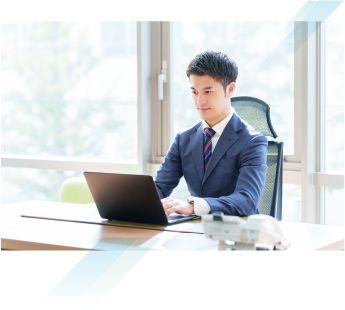
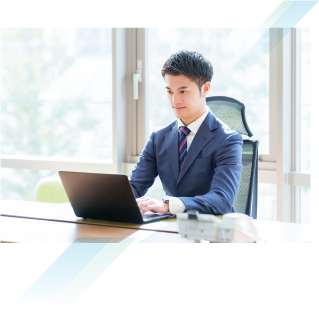
sp top service

diff --git a/docs/assets/css/common.css b/docs/assets/css/common.css
@@ -157,6 +157,11 @@ ul {
   border-radius: 40px;
   transition: all 0.3s ease-in-out;
 }
+@media screen and (max-width: 767px) {
+  .btn {
+    font-size: 14px;
+  }
+}
 .btn:hover {
   opacity: 0.7;
   gap: 40px;
@@ -169,6 +174,14 @@ ul {
   width: 32px;
   height: 8px;
   margin-right: -30px;
+}
+.btn.-border {
+  color: #2E3190;
+  border: 1px solid #2E3190;
+  background-color: transparent;
+}
+.btn.-border::after {
+  background-image: url(/assets/img/arrow-b.svg);
 }
 
 .drawer {
@@ -430,13 +443,79 @@ ul {
 .top-se {
   background: linear-gradient(to right, #ffffff, #CBEBF6);
   padding-top: 80px;
+  padding-bottom: 80px;
   margin-top: -40px;
-  display: flex;
+  position: relative;
 }
 @media screen and (max-width: 767px) {
   .top-se {
     margin-top: 40px;
   }
+}
+.top-se__box {
+  display: flex;
+  align-items: flex-start;
+  justify-content: space-between;
+  position: relative;
+  z-index: 1;
+}
+@media screen and (max-width: 767px) {
+  .top-se__box {
+    display: inherit;
+    height: 440px;
+  }
+}
+.top-se__text {
+  text-align: right;
+}
+.top-se__text h4 {
+  font-size: 24px;
+}
+@media screen and (max-width: 767px) {
+  .top-se__text h4 {
+    font-size: 20px;
+    margin-top: 40px;
+  }
+}
+.top-se__text p {
+  margin-top: 40px;
+  font-size: 16px;
+}
+@media screen and (max-width: 767px) {
+  .top-se__text p {
+    font-size: 12px;
+  }
+}
+.top-se__btn {
+  margin-top: 40px;
+  width: 300px;
+  margin-left: auto;
+}
+@media screen and (max-width: 767px) {
+  .top-se__btn {
+    width: 240px;
+    margin-right: auto;
+  }
+}
+.top-se__img {
+  position: absolute;
+  width: 70%;
+  max-width: calc(50vw + 200px);
+  left: -10%;
+  top: 30%;
+  max-height: 600px;
+  overflow-y: hidden;
+}
+.top-se__img img {
+  width: 100%;
+  -o-object-position: center;
+     object-position: center;
+  -o-object-fit: cover;
+     object-fit: cover;
+}
+.top-se__imgsp {
+  margin-top: 0;
+  margin-left: -20%;
 }
 
 .top {
@@ -467,8 +546,8 @@ ul {
 .top p {
   position: absolute;
   bottom: 10%;
-  right: 10%;
-  font-size: 10px;
+  right: 8%;
+  font-size: 14px;
   font-weight: bold;
   font-family: "Helvetica Neue", "Helvetica", "Arial", sans-serif;
 }

diff --git a/src/scss/blocks/_top-se.scss b/src/scss/blocks/_top-se.scss
@@ -3,9 +3,71 @@
 .top-se {
   background: linear-gradient(to right, $white, $color-main2);
   padding-top: 80px;
+  padding-bottom: 80px;
   margin-top: -40px;
-  display: flex;
+  position: relative;
   @include sm {
     margin-top: 40px;
+  }
+
+  &__box {
+    display: flex;
+    align-items: flex-start;
+    justify-content: space-between;
+    position: relative;
+    z-index: 1;
+    @include sm {
+      display: inherit;
+      height: 440px;
+    }
+  }
+
+  &__text {
+    text-align: right;
+    h4 {
+      font-size: 24px;
+      @include sm {
+        font-size: 20px;
+        margin-top: 40px;
+      }
+    }
+  
+    p {
+      margin-top: 40px;
+      font-size: 16px;
+      @include sm {
+        font-size: 12px;
+      }
+    }
+  }
+
+  &__btn {
+    margin-top: 40px;
+    width: 300px;
+    margin-left: auto;
+    @include sm {
+      width: 240px;
+      margin-right: auto;
+    }
+  }
+
+  &__img {
+    position: absolute;
+    width: 70%;
+    max-width: calc(50vw + 200px);
+    left: -10%;
+    top: 30%;
+    max-height: 600px;
+    overflow-y: hidden;
+    img {
+      width: 100%;
+      object-position: center;
+      object-fit: cover;
+    }
+  }
+
+  &__imgsp {
+    margin-top: 0;
+    margin-left: -20%;
   }
 }

diff --git a/docs/index.html b/docs/index.html
@@ -103,10 +103,27 @@
 	<!-- service -->
 	<article class="top-se">
 		<div class="container">
-			<h3>Service</h3>
-			<h4>経営者が期待する<br>
-				成⻑を実現する<br>
-				1年間のオンラインプログラム</h4>
+			<div class="top-se__box">
+				<h3>Service</h3>
+				<div class="top-se__text">
+					<h4>経営者が期待する<br>
+						成⻑を実現する<br>
+						1年間のオンラインプログラム</h4>
+					<p>オビラボ管理職道場は、管理職づくりに特化した<br>
+							オンラインの研修プログラム。<br>
+							経営者の期待を直接受講者に伝え、<br>
+							⽬指す管理職像を明確にし、成⻑を促します。</p>
+					<div class="top-se__imgsp u-hidden-pc">
+						<img src="/assets/img/main2-sp.webp" alt="">
+					</div>
+					<div class="top-se__btn">
+						<a href="#" class="btn -border">オビラボ管理職道場</a>
+					</div>
+				</div>
+			</div>
+		</div>
+		<div class="top-se__img u-hidden-sp">
+			<img src="/assets/img/main2.webp" alt="">
 		</div>
 	</article>
 	<!-- contact -->

diff --git a/src/scss/blocks/_btn.scss b/src/scss/blocks/_btn.scss
@@ -21,6 +21,9 @@
 	user-select: none;
 	border-radius: 40px;
 	transition: all 0.3s ease-in-out;
+	@include sm {
+		font-size: 14px;
+	}
 	&:hover {
 		opacity: 0.7;
 		gap: 40px;
@@ -33,5 +36,14 @@
 		width: 32px;
 		height: 8px;
 		margin-right: -30px;
+	}
+
+	&.-border {
+		color: $color-main1;
+		border: 1px solid $color-main1;
+		background-color: transparent;
+		&::after {
+			background-image: url(/assets/img/arrow-b.svg);
+		}
 	}
 }

diff --git a/src/scss/blocks/_top.scss b/src/scss/blocks/_top.scss
@@ -28,8 +28,8 @@
   p {
     position: absolute;
     bottom: 10%;
-    right: 10%;
-    font-size: 10px;
+    right: 8%;
+    font-size: 14px;
     font-weight: bold;
     @include sm {
       font-size: 2vw;
